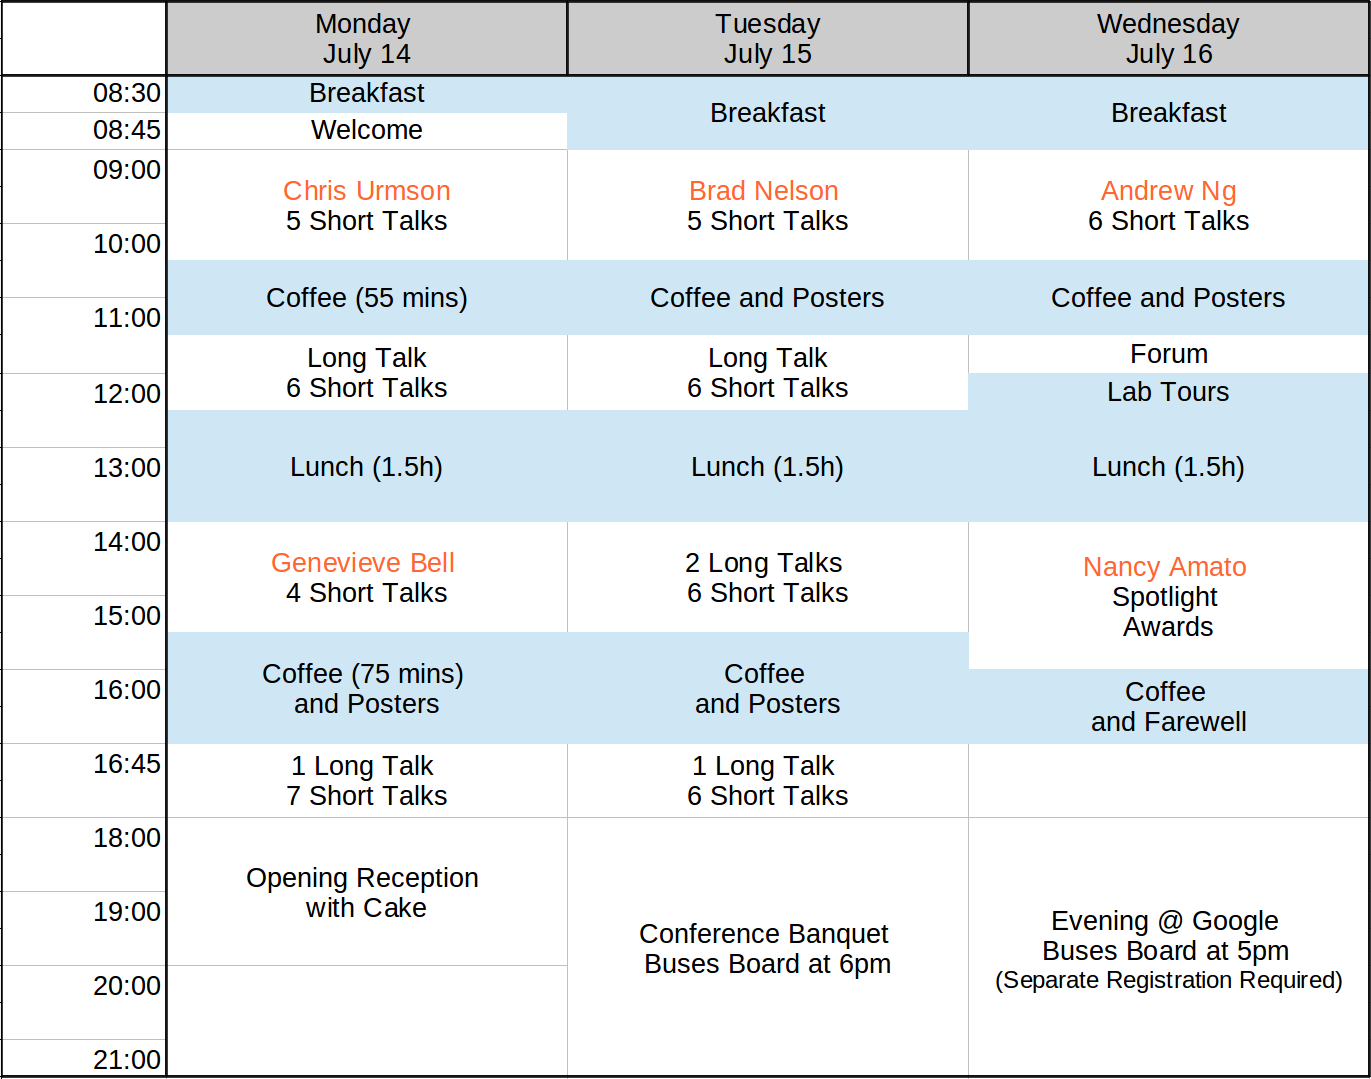
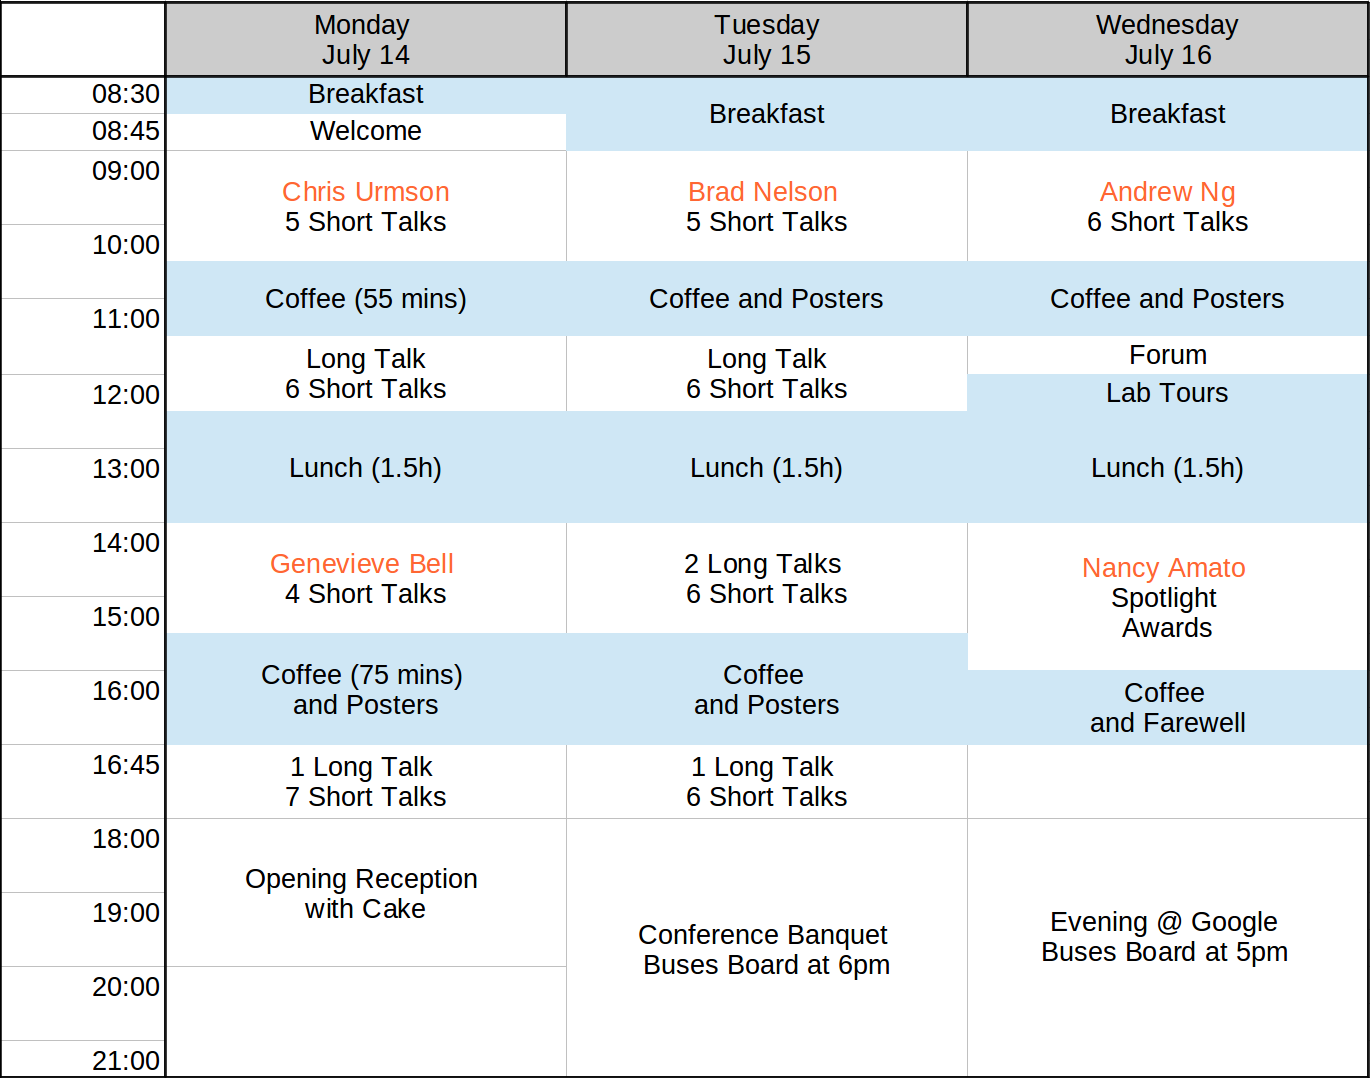
S

diff --git a/program_overview.html b/program_overview.html
@@ -83,7 +83,8 @@
 
 	<p align="justify" class="text"><sup><font size="1">2</font></sup> Conference Banquet: The conference banquet will be held on a 2-hour cruise in the San Francisco Bay. Enjoy a splendid sunset on the water with magnificent views of the city of San Francisco, accompanied by a delicious seasonal dinner and drinks. Transportation will be provided. </p>
 
-        <p align="justify" class="text"><sup><font size="1">3</font></sup> Dinner & Demos at Google HQ: On the last day of the conference, Google will be hosting a special evening event for RSS attendees at the Google Headquarters in Mountain View. Register for the event and you can look forward to a night of hosted dinner and demos from some of the Google teams working on robotics, machine learning, and computer vision. Teams that will be present include the Self-Driving Car team, Project Loon, Google Glass, Streetview, and more. Transportation will be provided.
+        <p align="justify" class="text"><sup><font size="1">3</font></sup> Dinner & Demos at Google HQ: On the last day of the conference, Google will be hosting a special evening event for RSS attendees at the Google Headquarters in Mountain View. Register for the event (by marking the appropriate option
+while registering for RSS 2014) and you can look forward to a night of hosted dinner and demos from some of the Google teams working on robotics, machine learning, and computer vision. Teams that will be present include the Self-Driving Car team, Project Loon, Google Glass, Streetview, and more. Transportation will be provided.
 </p>
 
 
